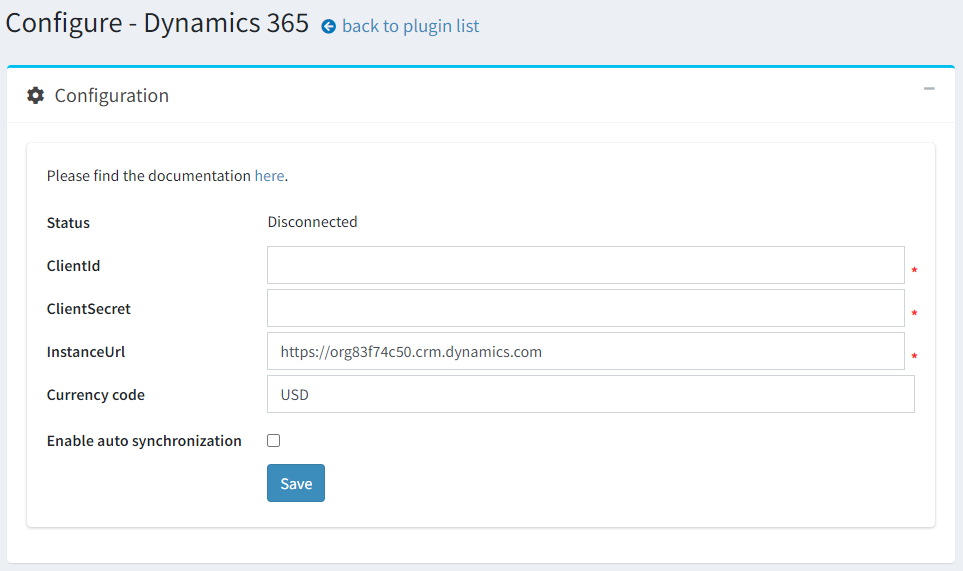
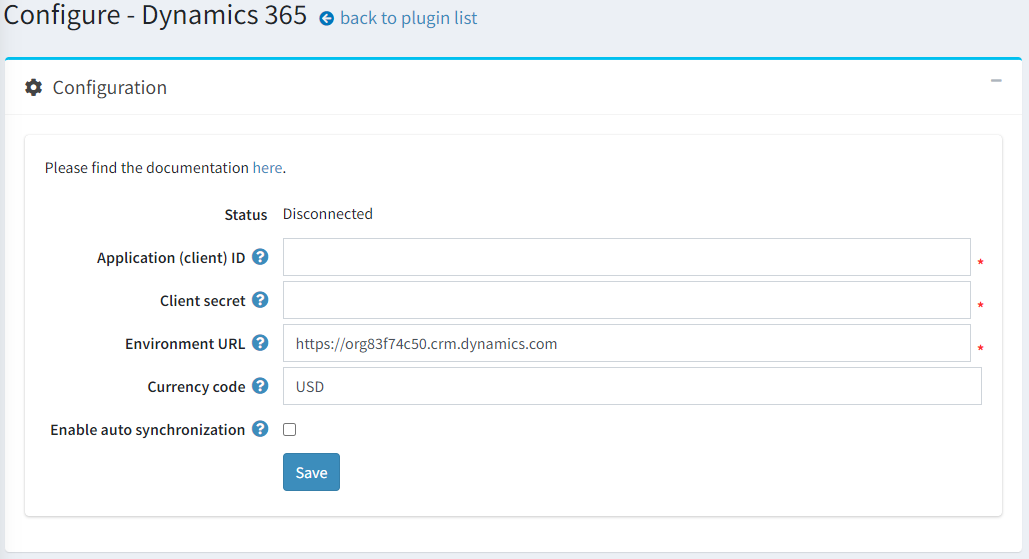
Update ms-dynamics-365

diff --git a/en/developer/ms-dynamics-365/index.md b/en/developer/ms-dynamics-365/index.md
@@ -254,13 +254,22 @@ Click the **Configure** button. You will see the *Configure - Dynamics 365* wind
 
 ![Find the plugin](_static/plugin_disconnected.png)
 
-To use Dynamics 365 with nopCommerce, you will first need to register and set up your account in MS Dynamics 365 as described earlier and enter all the necessary settings in the fields on the plugin configuration form.
+To use Dynamics 365 with nopCommerce, you will first need to register and set up your account in MS Dynamics 365 as described earlier and enter all the necessary settings in the fields on the plugin configuration form:
+
+- **Application (client) ID**. The registered client ID on Azure portal.
+- **Client secret**. Client secret for Application ID. A secret string that the application uses to prove its identity when requesting a token.
+- **Environment URL**. Direct URL of Dataverse instance to connect too.
+- **Currency code**. Displays the primary currency code of the your store.
+- **Enable auto synchronization**. Determine whether to enable auto synchronization. If disabled, synchronization must be started manually on this page.
+- **Auto synchronization period**. Set the period (in minutes) for auto synchronization.
 
 Click the **Save** button.
 
 ![Find the plugin](_static/plugin_connected.png)
 
 Go to the **Synchronization** panel to synchronize your nopCommerce customers, products, and orders with your Dynamics 365 environment.
+
+![Find the plugin](_static/plugin_connected_sync.png)
 
 ## Contacts sync
 
